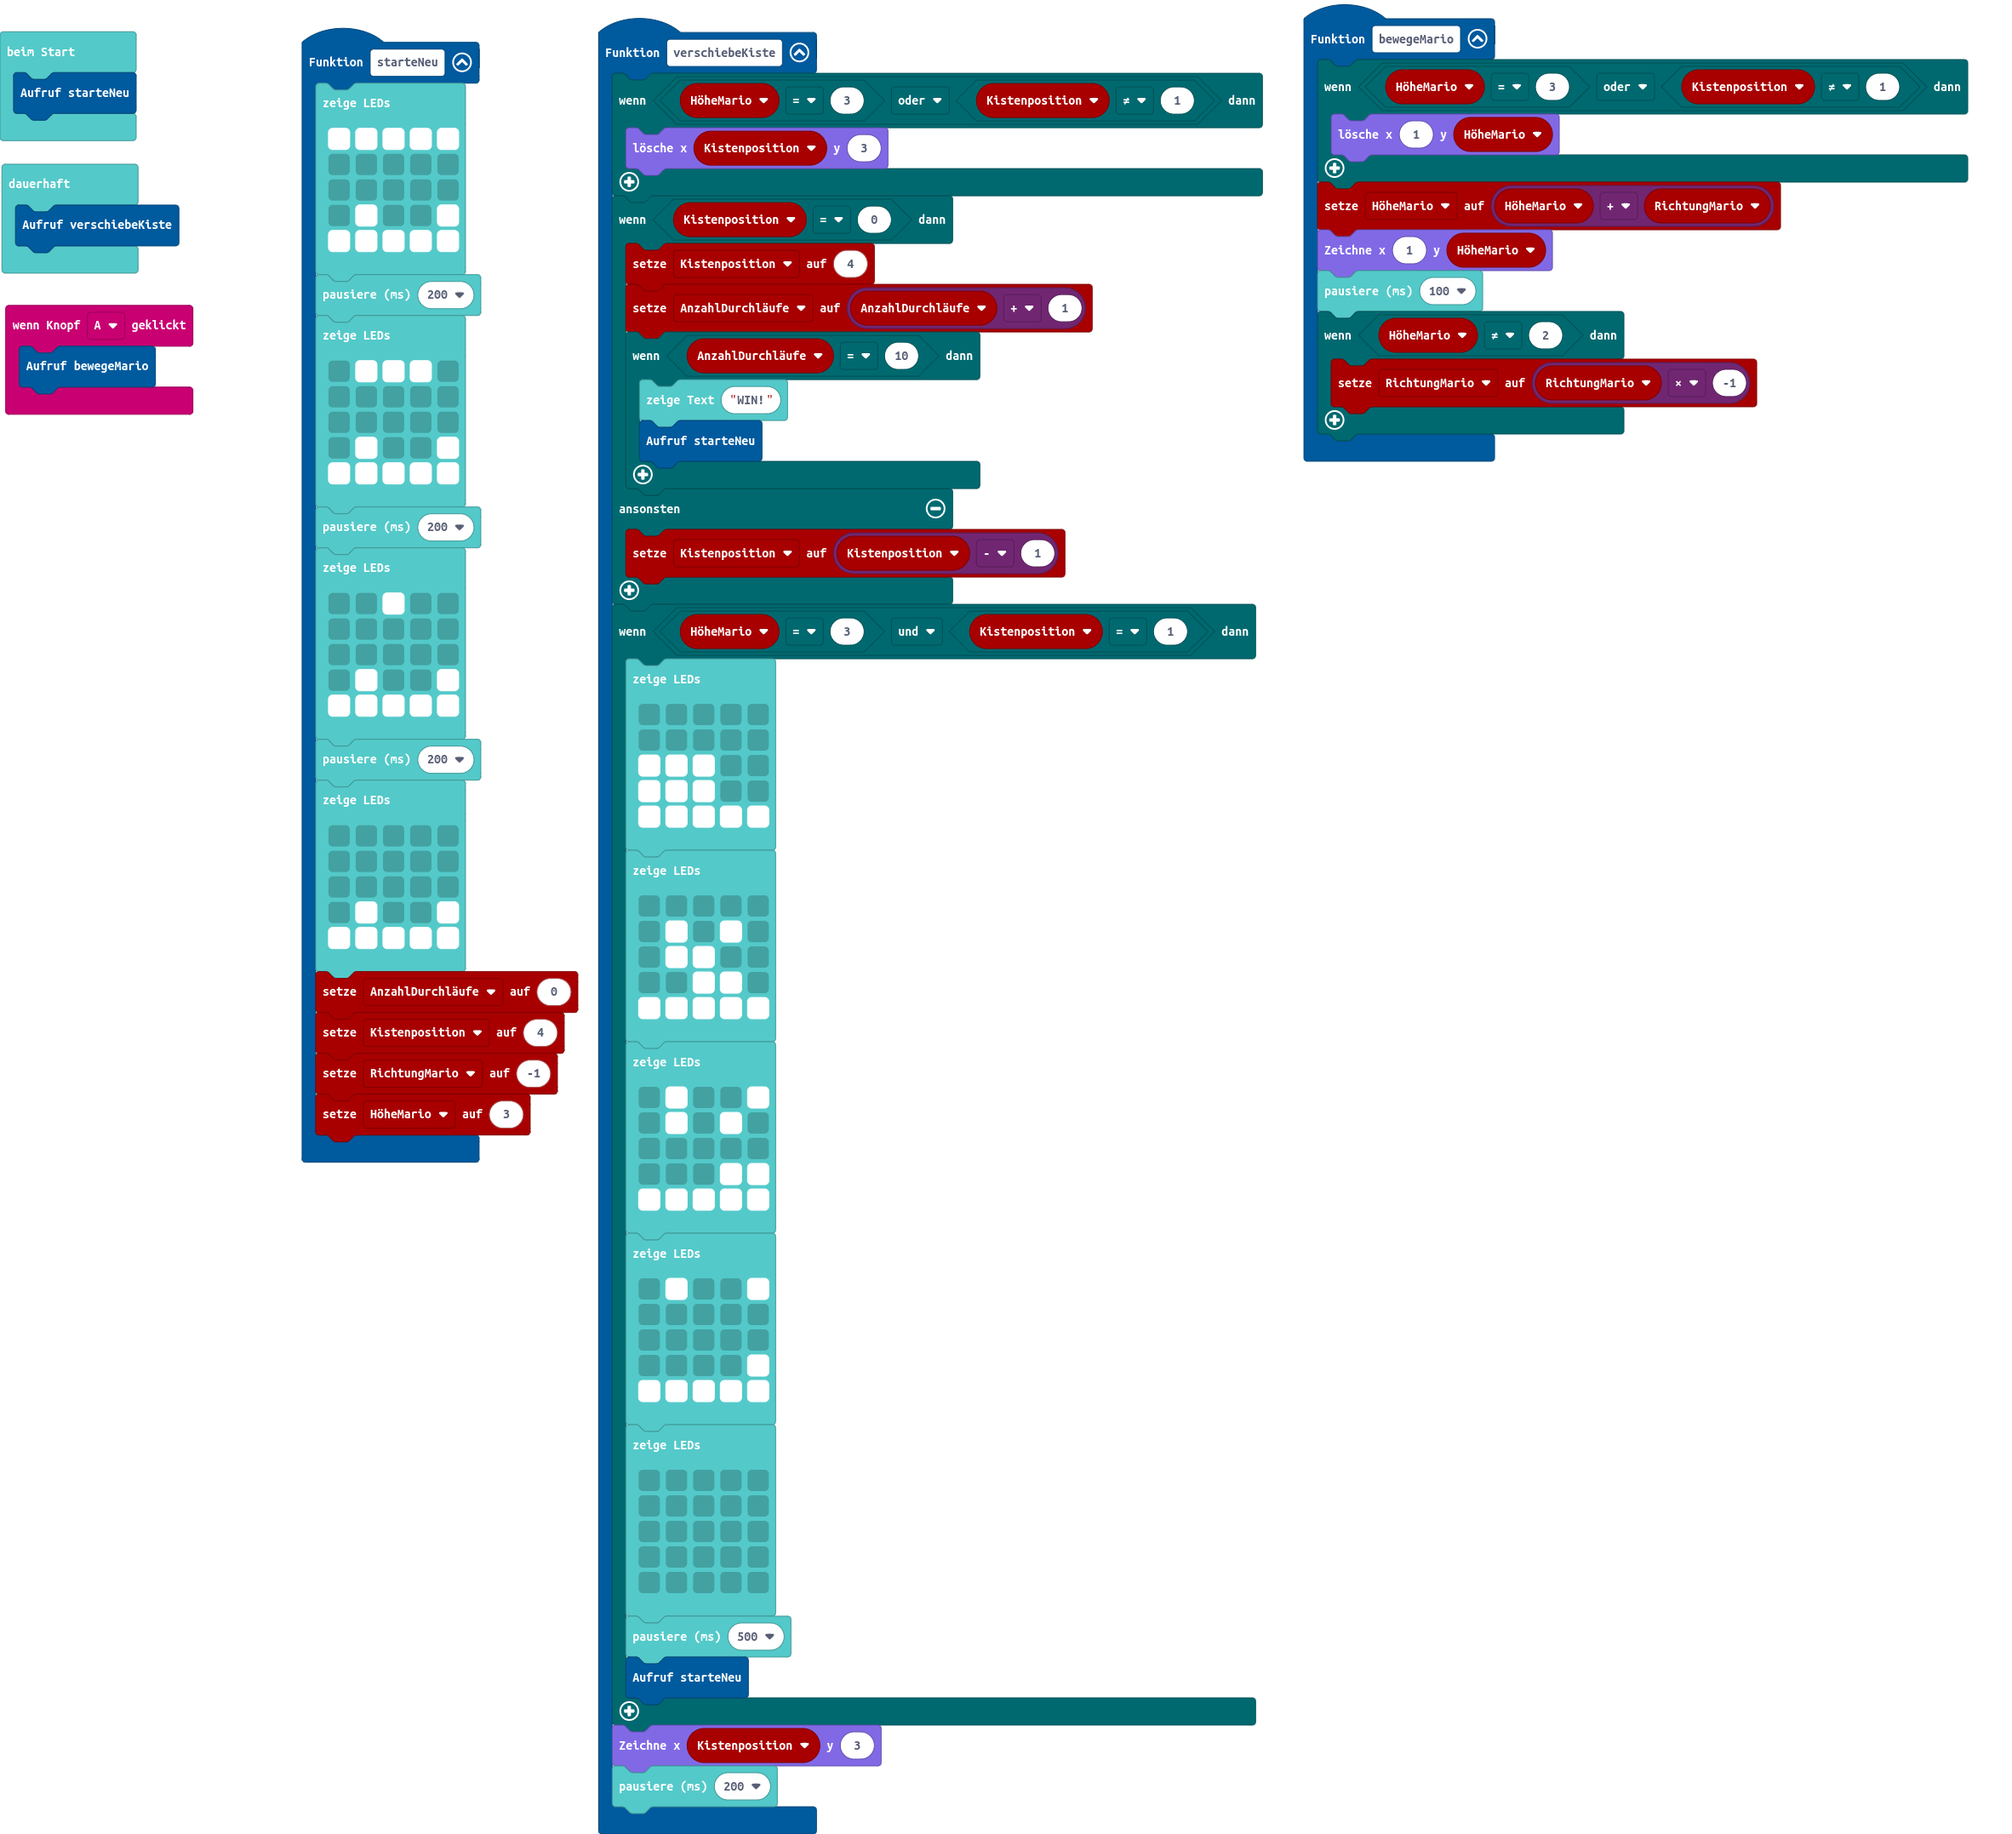
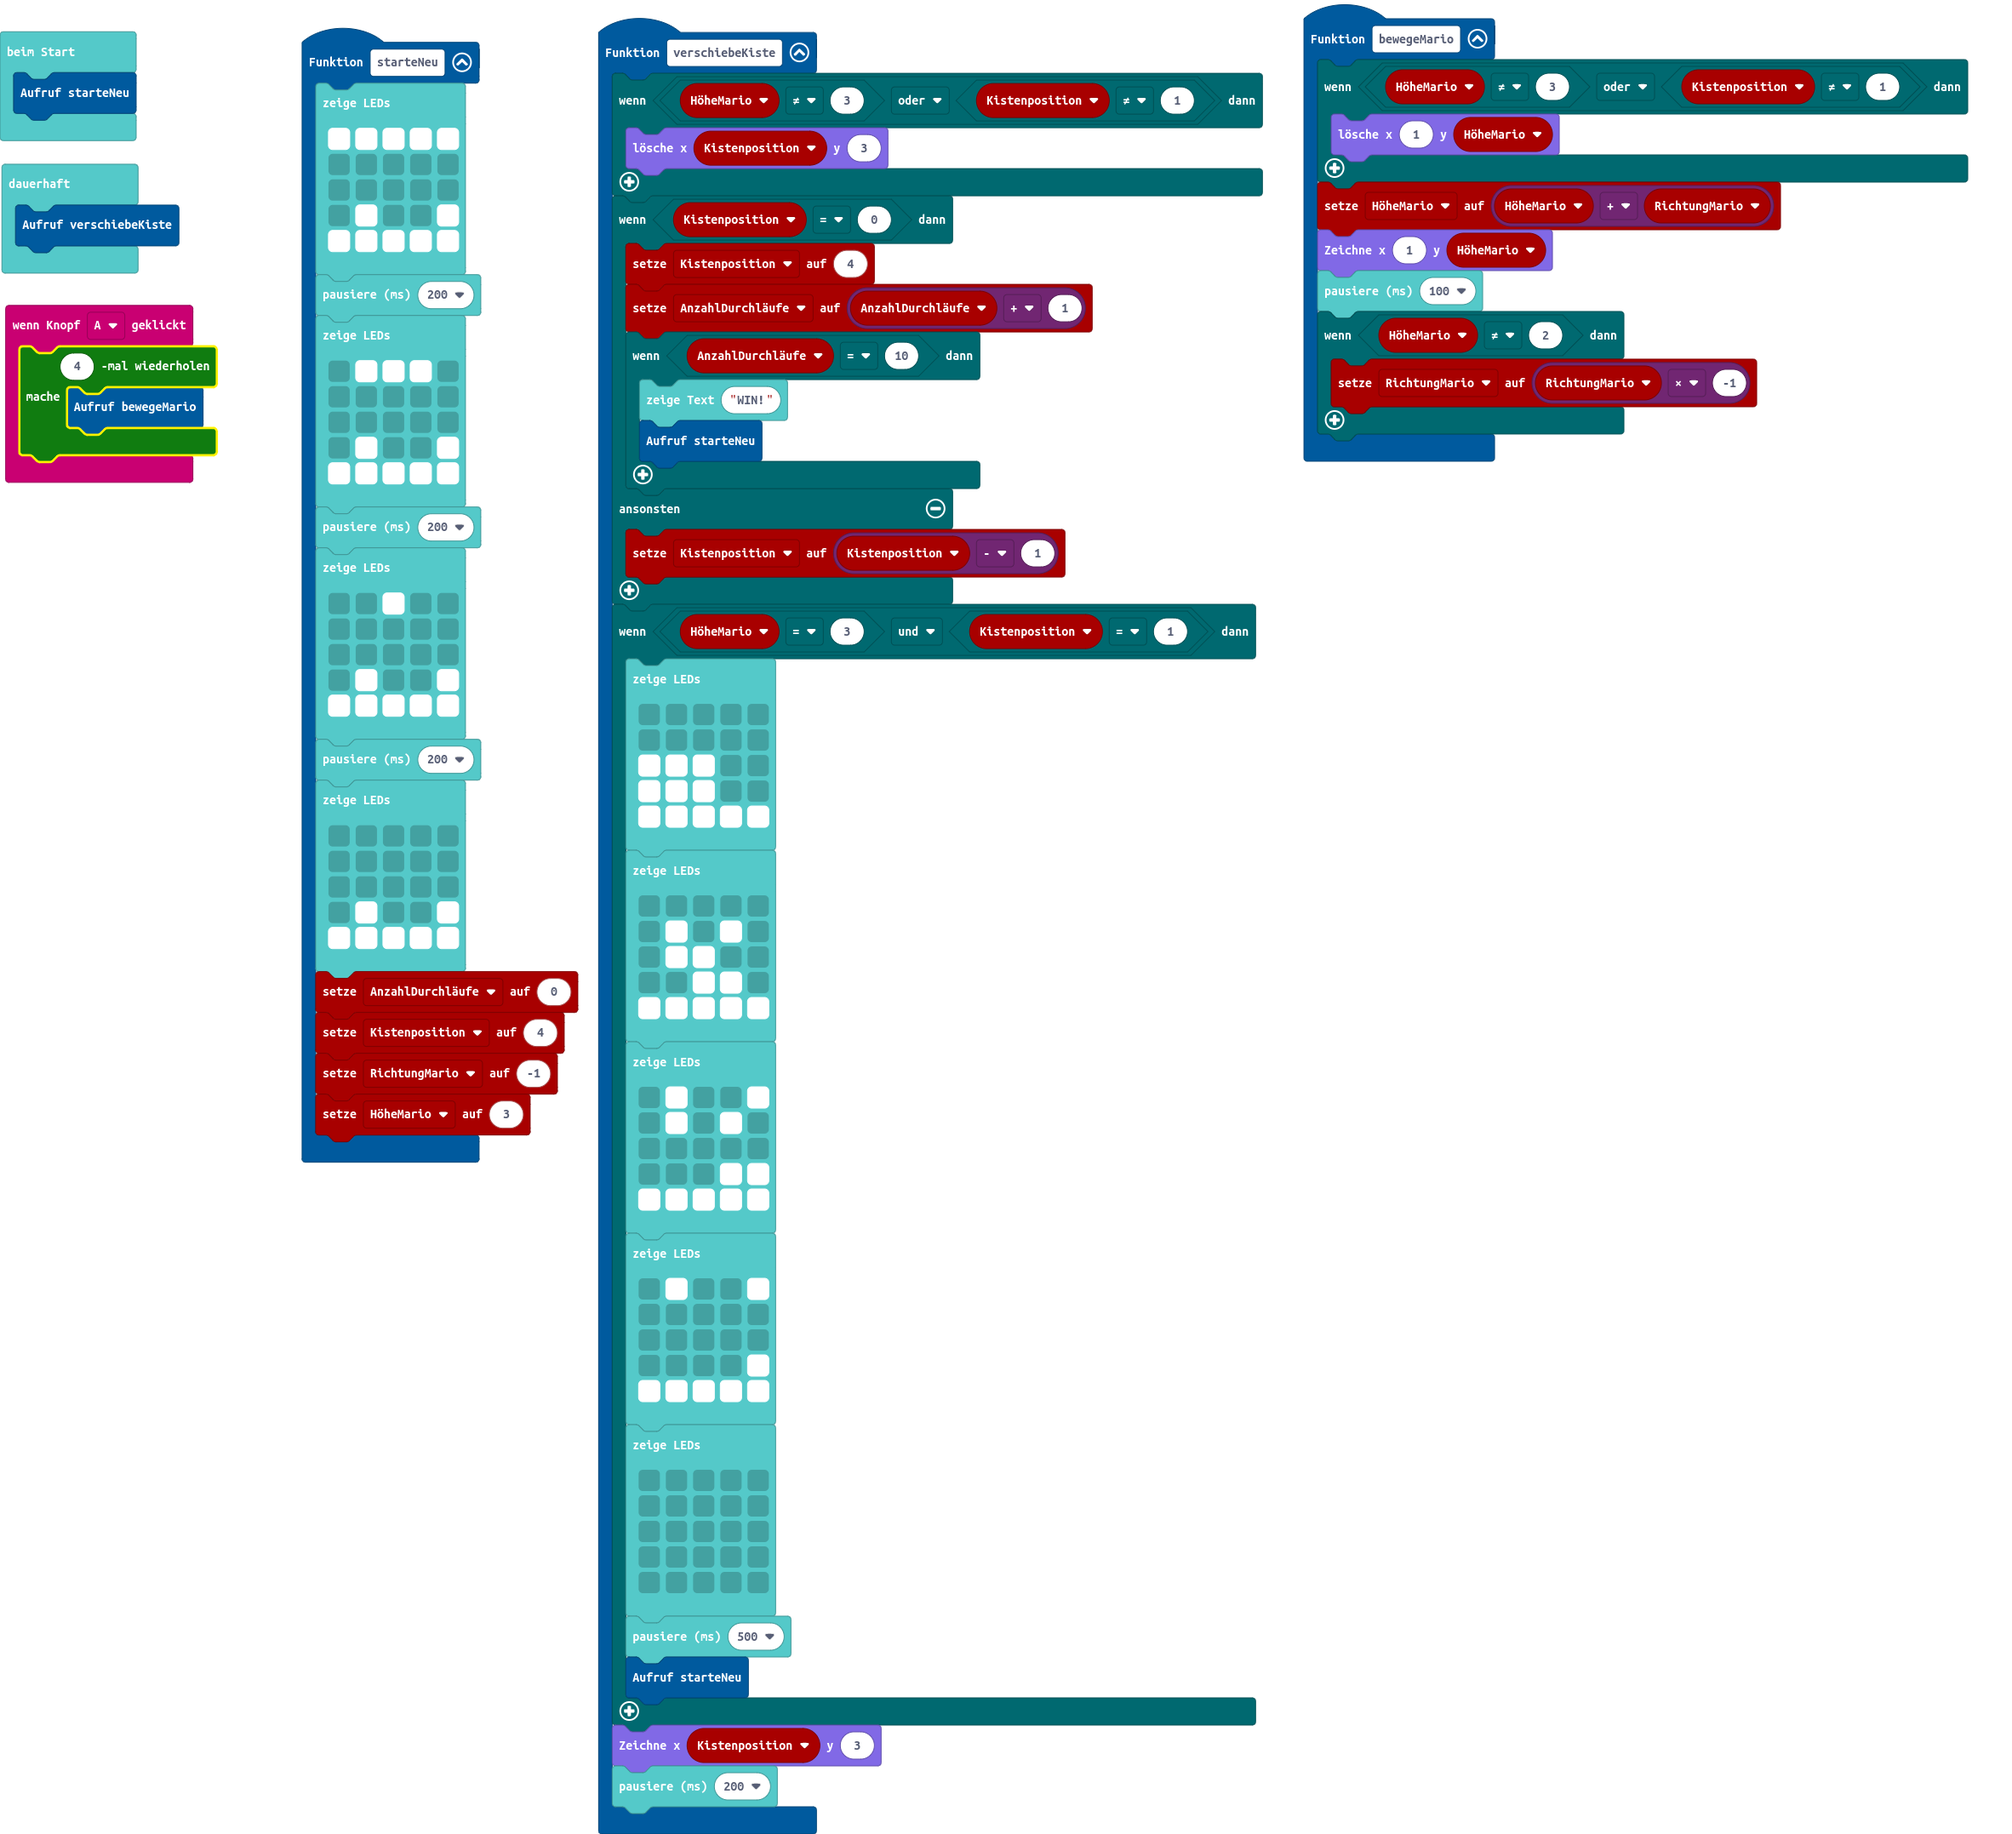
repariere Höhenveränerung Mario

Changed region(s): [[0.0, 0.1865, 0.1235, 0.2798]]

diff --git a/main.ts b/main.ts
@@ -1,8 +1,10 @@
 input.onButtonPressed(Button.A, function () {
-    bewegeMario()
+    for (let index = 0; index < 4; index++) {
+        bewegeMario()
+    }
 })
 function bewegeMario () {
-    if (HöheMario == 3 || Kistenposition != 1) {
+    if (HöheMario != 3 || Kistenposition != 1) {
         led.unplot(1, HöheMario)
     }
     HöheMario = HöheMario + RichtungMario
@@ -50,7 +52,7 @@ function starteNeu () {
     HöheMario = 3
 }
 function verschiebeKiste () {
-    if (HöheMario == 3 || Kistenposition != 1) {
+    if (HöheMario != 3 || Kistenposition != 1) {
         led.unplot(Kistenposition, 3)
     }
     if (Kistenposition == 0) {
